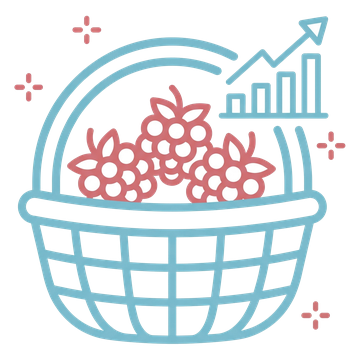
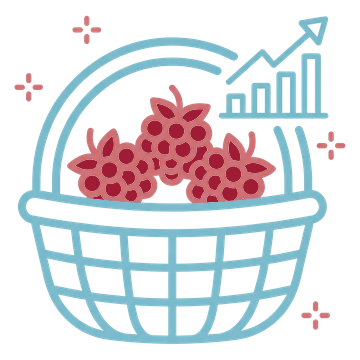
Registro de errores con «Copiar todo» y «Enviar»; Rendimiento: sector por GPS y respaldo arriba
* Registro de errores: copia el texto completo (para pegarlo en un chat) o lo envía como
  .txt; ahora también en los Ajustes de la pantalla principal de AeonCrop.
* Rendimiento: al elegir un predio se pide el sector; con plano (El Amanecer) se detecta
  con el GPS del teléfono o la ubicación de la foto (punto en polígono del plano).
* Rendimiento y AeonScout: respaldo como botoncito de nube arriba a la izquierda.
* Ícono de Rendimiento: frambuesas rojo oscuro (antes blancas).

Claude-Session: https://claude.ai/code/session_01AQtHHbNtiHMaVCGrhptX3t

Changed region(s): [[0.2139, 0.275, 0.7333, 0.5806]]

diff --git a/ui/yield_ui.py b/ui/yield_ui.py
@@ -251,6 +251,10 @@ def _crop_id() -> str:
 class YieldHome(YieldScreenBase):
     def on_pre_enter(self, *_):
         self.title = "Estimaciones de rendimiento"
+        # Respaldo: botoncito arriba a la izquierda (como en los demás módulos)
+        self.ids.bar.left_action_items = [["arrow-left", lambda x: app().back()],
+                                          [theme.DRIVE_UP, lambda x: app().yield_backup(manual=True),
+                                           "Respaldar en Google Drive"]]
         db().apply_boxes(_labels())          # lo marcado en IA+ cuenta solo
         self.refresh()
 
@@ -293,14 +297,11 @@ class YieldHome(YieldScreenBase):
             text=(f"Carpeta [b]AeonCrop/{crops.current().app}/{R.DRIVE_DIR}[/b] (aparte de I+D y Predio): "
                   "una carpeta por estimación y la planilla «estimaciones.csv». " if on else
                   "Sin cuenta de Google: todo queda guardado en el teléfono hasta conectarla. ")
-            + (f"{st} archivo(s) por subir." if st else "Todo respaldado." if on else ""), markup=True))
+            + (f"{st} archivo(s) por subir (nube de arriba a la izquierda: respaldar ahora)." if st
+               else "Todo respaldado." if on else ""), markup=True))
         card.add_widget(Factory.Muted(
             text="Las fotos también aparecen en IA+ (app y web) para marcarlas con cajas: lo marcado se "
                  "cuenta solo aquí y sirve para entrenar el detector que contará automáticamente."))
-        if on:
-            b = Factory.GhostButton(icon="cloud-upload-outline", text="Respaldar ahora")
-            b.bind(on_release=lambda *_: app().yield_backup(manual=True))
-            card.add_widget(b)
         body.add_widget(card)
 
 
@@ -331,6 +332,10 @@ class YieldSet(YieldScreenBase):
             b = Factory.GhostButton(icon="vector-square", text=f"{what}: {s['sector'] or '(elegir)'}")
             b.bind(on_release=lambda *_: self._pick_sector())
             card.add_widget(b)
+            if self._plan(s):
+                b = Factory.GhostButton(icon="crosshairs-gps", text="Detectar el sector con mi GPS")
+                b.bind(on_release=lambda *_: self._gps_sector())
+                card.add_widget(b)
         b = Factory.GhostButton(icon="calendar", text=f"Fecha: {_date(s['taken_on'])}")
         b.bind(on_release=lambda *_: self._pick_date())
         card.add_widget(b)
@@ -438,6 +443,87 @@ class YieldSet(YieldScreenBase):
                      place_code=p.get("code", ""), sector="")
         d.set_setting("yield_last_place", {"place": {k: p.get(k, "") for k in ("kind", "name", "code")}, "sector": ""})
         self.refresh()
+        if p.get("kind") in ("predio", "ensayo"):        # el sector se pide de inmediato
+            Clock.schedule_once(lambda *_: self._pick_sector(), .25)
+
+    # ------------------------------------------------------------ sector por GPS
+    @staticmethod
+    def _plan(s):
+        """Plano del predio (con coordenadas) o None: solo los predios con plano cargado."""
+        if not s or s["place_kind"] != "predio":
+            return None
+        from ui.sector_map import load_map
+        plan = load_map(s["place_code"])
+        return plan if plan and plan.get("geo") else None
+
+    def _place(self, s):
+        import scout
+        from platform_utils import get_base_dir
+        return next((p for p in scout.places(get_base_dir(), _crop_id()) if p["code"] == s["place_code"]), None)
+
+    def _sector_from(self, lat, lon, source: str, ask: bool = True) -> bool:
+        """Busca el sector del plano en (lat, lon) y lo propone. True si cayó en uno."""
+        import geo
+        import scout
+        s = db().get_set(self.set_id)
+        plan = self._plan(s)
+        hit = geo.sector_at(plan, lat, lon)
+        if not hit:
+            if ask:
+                app().toast(f"{source}: fuera de los sectores de {s['place']}. Elíjalo de la lista.")
+            return False
+        place = self._place(s)
+        name = (scout.sector_for(place, hit["equipo"], hit["sector"]) if place else None) or hit["nombre"]
+        vars_ = ", ".join(hit.get("variedades") or [])
+        if not ask:
+            self._set_sector(name)
+            app().toast(f"Sector según {source.lower()}: {hit['nombre']}")
+            return True
+        from ui.screens import confirm
+        confirm("¿Usar este sector?",
+                f"{source}: está en {hit['nombre']}" + (f" ({vars_})" if vars_ else "") + ".",
+                [("Usar", lambda: self._set_sector(name)), ("Elegir otro", self._pick_sector)])
+        return True
+
+    def _gps_sector(self):
+        import geo
+        a = app()
+        if getattr(self, "_gps", None) is not None:
+            return
+        a.toast("Buscando su ubicación (GPS)…")
+
+        def done(lat, lon, acc=None):
+            self._gps = None
+            self._sector_from(lat, lon, "Según su GPS")
+
+        def fail(msg=""):
+            self._gps = None
+            a.toast(f"No se pudo leer el GPS{': ' + msg if msg else ''}. Elija el sector de la lista.")
+
+        def granted(ok):
+            if not ok:
+                return fail("sin permiso de ubicación")
+            try:
+                self._gps = geo.LocationRequest(done, fail, target=20)
+                self._gps.start()
+            except Exception as exc:  # noqa: BLE001
+                fail(str(exc))
+        try:
+            geo.request_location_permission(granted)
+        except Exception as exc:  # noqa: BLE001
+            fail(str(exc))
+
+    def _sector_from_photos(self, paths):
+        """Fotos nuevas con GPS (EXIF) y sin sector elegido: se elige solo."""
+        s = db().get_set(self.set_id)
+        if not s or s["sector"] or not self._plan(s):
+            return
+        import geo
+        for p in paths:
+            gps = geo.exif_gps(p)
+            if gps:
+                self._sector_from(gps[0], gps[1], "Ubicación de la foto", ask=False)
+                return
 
     def _set_sector(self, name):
         d = db()
@@ -465,6 +551,8 @@ class YieldSet(YieldScreenBase):
         place = next((p for p in scout.places(get_base_dir(), _crop_id()) if p["code"] == s["place_code"]), None)
         names = scout.sectors(place) if place else []
         items = [(n, "", lambda n=n: self._set_sector(n)) for n in names]
+        if self._plan(s):
+            items.insert(0, ("Detectar con mi GPS", "Según el plano del predio", self._gps_sector))
         items.append(("Otro…", "Escribir", self._other_sector))
         pick_dialog("Sector" if s["place_kind"] == "predio" else "Parcela / variedad", items)
 
@@ -519,6 +607,7 @@ class YieldSet(YieldScreenBase):
                 if err:
                     a.toast(f"No se pudo guardar alguna foto: {err}")
                 self.refresh()
+                self._sector_from_photos([p["path"] for p in db().photos(sid)][-len(paths):])
                 a.yield_backup()
             a.workers.submit(work)
 

diff --git a/ui/screens.py b/ui/screens.py
@@ -629,6 +629,39 @@ def text_dialog(title: str, lines: list[str], highlight: str = "", actions=(), s
     return dialog
 
 
+def show_error_log():
+    """Ajustes › Registro de errores: lo último de cada error, con «Copiar todo» (el texto
+    completo, para pegarlo en un chat) y «Enviar archivo» (.txt por WhatsApp, correo…)."""
+    import crashguard
+    from platform_utils import app_version
+    lines = crashguard.entries()
+
+    def copy_all():
+        from kivy.core.clipboard import Clipboard
+        try:
+            Clipboard.copy(crashguard.full_text())
+            app().toast("Registro copiado: péguelo en el chat")
+        except Exception as exc:  # noqa: BLE001
+            app().toast(f"No se pudo copiar: {exc}")
+
+    def send_file():
+        try:
+            path = crashguard.export_file()
+            app().media.share(path, "text/plain", title="Enviar registro de errores",
+                              subject=os.path.basename(path))
+        except Exception as exc:  # noqa: BLE001
+            app().toast(f"No se pudo enviar: {exc}")
+
+    actions = [("Copiar todo", copy_all), ("Enviar", send_file)]
+    if lines:
+        actions.append(("Borrar", lambda: confirm(
+            "Borrar registro", "Se borran los errores guardados en el teléfono.",
+            [("Borrar", lambda: (crashguard.clear(), app().toast("Registro borrado")))])))
+    text_dialog("Registro de errores",
+                [f"{app().title or 'AeonCrop'} {app_version()}"] + (lines or ["Sin errores registrados."]),
+                highlight="Error", actions=actions, small=True)
+
+
 def confirm(title: str, text: str, actions: list[tuple[str, callable]]):
     dialog = None
 
@@ -4542,14 +4575,7 @@ class SettingsTab(MDScreen):
                     highlight="✗")
 
     def show_errors(self):
-        import crashguard
-        from platform_utils import app_version
-        lines = crashguard.entries()
-        extra = [("Borrar registro", lambda: (crashguard.clear(), app().toast("Registro borrado")))] \
-            if lines else []
-        text_dialog("Registro de errores",
-                    [f"PhenoRubus {app_version()}"] + (lines or ["Sin errores registrados."]),
-                    highlight="Error", actions=extra, small=True)
+        show_error_log()
 
     def drive_disconnect(self):
         confirm("Desconectar Google Drive",

diff --git a/geo.py b/geo.py
@@ -125,6 +125,42 @@ def fetch_tile(z: int, x: int, y: int, layer: str = "osm") -> str | None:
 
 
 # ---------------------------------------------------- ubicación del teléfono
+# ------------------------------------------------------------- sector del plano
+def _inside(ring, x, y) -> bool:
+    inside, n = False, len(ring) // 2
+    j = n - 1
+    for i in range(n):
+        xi, yi, xj, yj = ring[2 * i], ring[2 * i + 1], ring[2 * j], ring[2 * j + 1]
+        if (yi > y) != (yj > y) and x < (xj - xi) * (y - yi) / (yj - yi) + xi:
+            inside = not inside
+        j = i
+    return inside
+
+
+def sector_at(plan: dict | None, lat: float, lon: float, near_m: float = 40.0) -> dict | None:
+    """Sector del plano del predio (assets/maps/<código>.json) donde cae (lat, lon).
+
+    Si el punto queda fuera de todos (GPS impreciso, en un camino entre sectores), el más
+    cercano a menos de `near_m` metros. None si el plano no tiene coordenadas o se está
+    lejos del predio."""
+    if not plan or not plan.get("geo"):
+        return None
+    g = plan["geo"]
+    x, y = lon * g["kx"] - g["x0"], lat * g["ky"] - g["y0"]
+    best, best_d = None, None
+    for s in plan.get("sectors", []):
+        for ring in s.get("parts", []):
+            if _inside(ring, x, y):
+                return s
+            for i in range(0, len(ring), 2):
+                d = math.hypot(ring[i] - x, ring[i + 1] - y)
+                if best_d is None or d < best_d:
+                    best, best_d = s, d
+    # unidades del plano ≈ metros (kx y ky son metros por grado a esa latitud)
+    m_per_unit = 111320.0 / g["ky"]
+    return best if best_d is not None and best_d * m_per_unit <= near_m else None
+
+
 LOCATION_PERMISSIONS = ["android.permission.ACCESS_FINE_LOCATION",
                         "android.permission.ACCESS_COARSE_LOCATION"]
 

diff --git a/crashguard.py b/crashguard.py
@@ -67,6 +67,37 @@ def entries(limit: int = 20) -> list[str]:
     return out
 
 
+def full_text() -> str:
+    """Todo el registro (sin abreviar) + el rastro de la última apertura, para copiar o enviar."""
+    import platform
+    parts = [f"Registro de errores · v{app_version()} · {_dt.datetime.now():%Y-%m-%d %H:%M:%S}"]
+    try:
+        from android_bridge import android_api_level
+        parts.append(f"Android API {android_api_level()} · {platform.machine()}")
+    except Exception:  # noqa: BLE001
+        pass
+    for path in (log_path() + ".1", log_path()):
+        try:
+            with open(path, encoding="utf-8", errors="replace") as f:
+                parts.append(f.read().strip())
+        except OSError:
+            pass
+    try:
+        with open(_trail_path(), encoding="utf-8", errors="replace") as f:
+            parts.append("=== Pasos de esta apertura\n" + f.read().strip())
+    except OSError:
+        pass
+    return "\n\n".join(p for p in parts if p)
+
+
+def export_file() -> str:
+    """Guarda full_text() en «logs/registro-errores-<fecha>.txt» y devuelve la ruta."""
+    path = os.path.join(data_subdir("logs"), f"registro-errores-{_dt.datetime.now():%Y%m%d-%H%M}.txt")
+    with open(path, "w", encoding="utf-8") as f:
+        f.write(full_text())
+    return path
+
+
 def clear() -> None:
     for p in (log_path(), log_path() + ".1"):
         try:

diff --git a/ui/scout_ui.py b/ui/scout_ui.py
@@ -225,12 +225,13 @@ class ScoutHome(ScoutScreenBase):
                   "especie y estadio) y la planilla «registro.csv». " if on else
                   "Sin cuenta de Google: todo queda guardado en el teléfono hasta conectarla "
                   "(pantalla principal). ")
-            + (f"{st} archivo(s) por subir." if st else "Todo respaldado." if on else ""), markup=True))
-        if on:
-            b = Factory.GhostButton(icon="cloud-upload-outline", text="Respaldar ahora")
-            b.bind(on_release=lambda *_: (app().scout_backup(manual=True)))
-            card.add_widget(b)
+            + (f"{st} archivo(s) por subir (nube de arriba a la izquierda: respaldar ahora)." if st
+               else "Todo respaldado." if on else ""), markup=True))
         body.add_widget(card)
+        # Respaldo: botoncito arriba a la izquierda (como en los demás módulos)
+        self.ids.bar.left_action_items = [["arrow-left", lambda x: app().back()],
+                                          [theme.DRIVE_UP, lambda x: app().scout_backup(manual=True),
+                                           "Respaldar en Google Drive"]]
 
 
 # ============================================================================ sección

diff --git a/scout.py b/scout.py
@@ -466,6 +466,28 @@ def sectors(place: dict) -> list[str]:
     return out
 
 
+def sector_for(place: dict, equipo, sector) -> str | None:
+    """Nombre (como en `sectors`) de la unidad del predio en ese equipo de riego y sector,
+    o None si el predio no tiene unidades ahí."""
+    path = place.get("file") or ""
+    if not os.path.exists(path):
+        return None
+    try:
+        con = sqlite3.connect(f"file:{path}?mode=ro", uri=True)
+        con.row_factory = sqlite3.Row
+        rows = [dict(r) for r in con.execute("SELECT * FROM varieties WHERE active=1 ORDER BY sort_order, name")]
+        con.close()
+    except sqlite3.Error:
+        return None
+    import phenology as ph
+    for v in rows:
+        if str(v.get("irrigation") or "") == str(equipo) and str(v.get("sector") or "") == str(sector):
+            label = ph.unit_place(v) or v["name"]
+            label = f"{label} · {ph.unit_main(v)}" if ph.is_unit(v) else label
+            return label[:1].upper() + label[1:]
+    return None
+
+
 # ----------------------------------------------------------------- Drive
 class ScoutDrive:
     """Respaldo en Drive de AeonScout: la cola de fotos (DriveBackup con la carpeta

diff --git a/tests/test_core.py b/tests/test_core.py
@@ -3397,3 +3397,21 @@ def test_hidden_by_opacity_stops_at_the_window():
     assert hidden_by_opacity(btn) is False
     screen.opacity = 0
     assert hidden_by_opacity(btn) is True
+
+
+def test_sector_at_gps_point_on_the_predio_map():
+    """Rendimiento: el GPS (o el EXIF de la foto) cae en un sector del plano de El Amanecer."""
+    import json
+    from pathlib import Path
+    import geo
+    plan = json.loads((Path(__file__).resolve().parent.parent / "assets" / "maps" / "AM.json")
+                      .read_text(encoding="utf-8"))
+    g = plan["geo"]
+    s = next(x for x in plan["sectors"] if x["id"] == "E2-S7")
+    ring = s["parts"][0]
+    x, y = sum(ring[0::2]) / len(ring[0::2]), sum(ring[1::2]) / len(ring[1::2])
+    lat, lon = (y + g["y0"]) / g["ky"], (x + g["x0"]) / g["kx"]
+    hit = geo.sector_at(plan, lat, lon)
+    assert hit and hit["equipo"] == 2
+    assert geo.sector_at(plan, lat + 0.05, lon) is None        # a 5 km: fuera del predio
+    assert geo.sector_at({"sectors": []}, lat, lon) is None    # plano sin coordenadas
